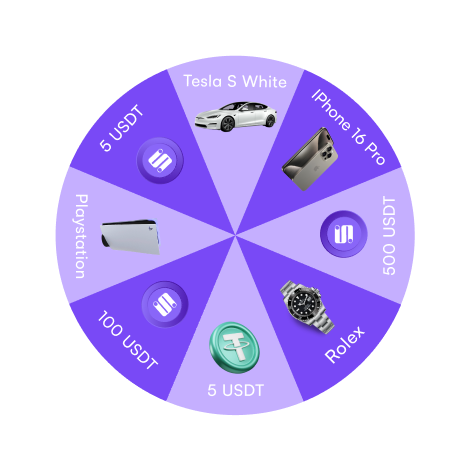
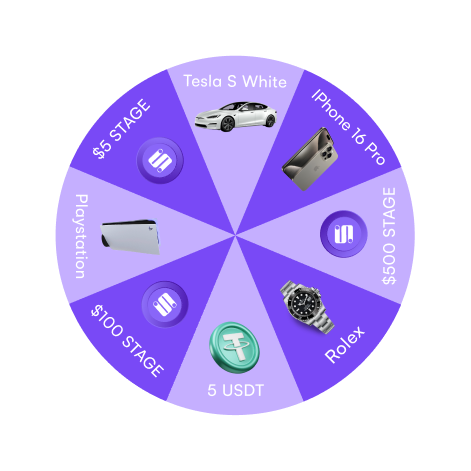
fix SpinWheel anda CORS errors

diff --git a/components/SpinWheel.tsx b/components/SpinWheel.tsx
@@ -39,47 +39,55 @@ const SpinWheel: React.FC<SpinWheelProps> = ({
   }, [hasClaimed]);
 
   useEffect(() => {
-    if (hasClaimed) {
-      setCurrentRotation(360 * 20000); // Muchas vueltas completas
-      setPrizeMessage(localStorage.getItem('prizeMessage') || '');
+    const hasSpunBefore = localStorage.getItem('hasSpun');
+    const savedMessage = localStorage.getItem('prizeMessage');
+    if (hasSpunBefore === 'true') {
+      setHasSpun(true);
+      setHasClaimed(true);
+      if (savedMessage) {
+        setPrizeMessage(savedMessage);
+        // Establecer el ángulo según el mensaje guardado
+        let finalAngle = 0;
+        if (savedMessage.includes('USDT')) {
+          finalAngle = 45;
+        } else if (savedMessage.includes('STAGE')) {
+          finalAngle = 180;
+        }
+        setCurrentRotation(finalAngle);
+      }
     }
   }, []);
 
   const checkWallet = async () => {
-    //console.log('1. Iniciando checkWallet');
+    console.log('1. Iniciando checkWallet');
     
     // Verificar si existe window.ethereum
     if (!(window as any).ethereum) {
-      //console.log('2. MetaMask no está instalado');
+      console.log('2. MetaMask no está instalado');
       setWalletError('Please install MetaMask to continue.');
       setShowWalletModal(true);
       return false;
     }
-    //console.log('2. MetaMask está instalado');
+    console.log('2. MetaMask está instalado');
 
     try {
-      //console.log('3. Intentando conectar con MetaMask');
+      console.log('3. Intentando conectar con MetaMask');
       const provider = new ethers.BrowserProvider((window as any).ethereum);
       
-      //console.log('4. Solicitando cuentas');
+      console.log('4. Solicitando cuentas');
       const accounts = await provider.send("eth_requestAccounts", []);
-      //console.log('5. Cuentas obtenidas:', accounts);
+      console.log('5. Cuentas obtenidas:', accounts);
       
       if (accounts.length === 0) {
-        //console.log('6. No se encontraron cuentas');
+        console.log('6. No se encontraron cuentas');
         setWalletError('Please connect your wallet.');
         setShowWalletModal(true);
         return false;
       }
 
       const walletAddress = accounts[0].toLowerCase();
-      //console.log('6. Wallet conectada:', walletAddress);
+      console.log('6. Wallet conectada:', walletAddress);
       
-      // Llamada al endpoint
-      //console.log('7. Preparando llamada al endpoint local');
-      const requestBody = { walletAddress };
-      //console.log('Body de la petición:', requestBody);
-
       try {
         if (hasClaimed) {
           setWalletError('You have already been rewarded.');
@@ -87,7 +95,7 @@ const SpinWheel: React.FC<SpinWheelProps> = ({
           return false;
         }
 
-        //console.log('8. Realizando fetch a Firebase a través de proxy CORS');
+        console.log('8. Realizando fetch a Firebase');
         const corsProxy = 'https://cors-anywhere.herokuapp.com/';
         const firebaseUrl = 'https://us-central1-raffle-stage-baa32.cloudfunctions.net/checkWallet';
         
@@ -100,82 +108,88 @@ const SpinWheel: React.FC<SpinWheelProps> = ({
           body: JSON.stringify({ walletAddress })
         });
 
-        //console.log('9. Status de la respuesta:', response.status);
+        console.log('9. Status de la respuesta:', response.status);
 
         // Primero obtener la respuesta como texto
         const data = await response.json();
-        //console.log('Respuesta del servidor:', data);
+        console.log('Respuesta del servidor:', data);
 
         let finalAngle = 0;
         if (data.prize === "7") {
-          //console.log('Entrando en condición premio 7');
+          console.log('Entrando en condición premio 7');
           // Premio USDT - ajustar este ángulo según la posición de la ruleta
           finalAngle = 45;
-          const message = '¡ Congrats you won 5 USDT !';
+          const message = 'Congrats you won 5 USDT!';
           setPrizeMessage(message);
           localStorage.setItem('prizeMessage', message);
           setHasClaimed(true);
           localStorage.setItem('hasSpun', 'true');
         } else if (data.prize === "8") {
-          //console.log('Entrando en condición premio 8');
+          console.log('Entrando en condición premio 8');
           // Premio STAGE - ajustar este ángulo según la posición de la ruleta
           finalAngle = 180;
-          const message = '¡ Congrats you won 5 STAGE !';
+          const message = 'Congrats you won $5 STAGE!';
           setPrizeMessage(message);
           localStorage.setItem('prizeMessage', message);
           setHasClaimed(true);
           localStorage.setItem('hasSpun', 'true');
         } else if (!data.success || data.message === 'wallet not found') {
-          //console.log('Entrando en condición wallet not found');
+          console.log('Entrando en condición wallet not found');
           // Sin premio - gira a una posición neutral
           finalAngle = 0;
-          setPrizeMessage('Lo sentimos, tu wallet no es elegible para reclamar un premio');
+          setPrizeMessage('This wallet hasn\'t staked during the campaign');
         } else {
-          //console.log('Entrando en condición else');
+          console.log('Entrando en condición else');
           finalAngle = 360;
-          setPrizeMessage('Ha ocurrido un error al verificar tu wallet');
+          setPrizeMessage('An error ocurred while checking your wallet');
         }
 
-        //console.log('Ángulo final seleccionado:', finalAngle);
+        console.log('Ángulo final seleccionado:', finalAngle);
         // Agregamos 3 vueltas completas antes del ángulo final
         const totalRotation = (360 * 6) + finalAngle;
         setCurrentRotation(totalRotation);
 
         return totalRotation;
       } catch (error: any) {
-        //console.error('Error en el proceso:', error);
-        setWalletError(error.message || 'Error al verificar la wallet');
+        console.error('Error en el proceso:', error);
+        setWalletError(error.message || 'An error ocurred while checking your wallet');
         setShowWalletModal(true);
         return false;
       }
     } catch (error) {
-      //console.log('Error en el proceso:', error);
-      setWalletError('Error al conectar con la wallet');
+      console.log('Error en el proceso:', error);
+      setWalletError('An error ocurred while checking your wallet');
       setShowWalletModal(true);
       return false;
     }
   };
 
   const handleSpin = async () => {
-    //console.log('Iniciando handleSpin');
+    console.log('Iniciando handleSpin');
     if (isSpinning || hasClaimed) {
-      //console.log('Ya está girando o ya giró');
+      console.log('Ya está girando o ya giró');
       return;
     }
     
+    setIsSpinning(true);
     const angle = await checkWallet();
-    //console.log('Ángulo recibido:', angle);
+    console.log('Ángulo recibido:', angle);
     if (angle === false) {
-      //console.log('No se pudo obtener el ángulo');
+      console.log('No se pudo obtener el ángulo');
+      setIsSpinning(false);
       return;
     }
 
-    //console.log('Iniciando giro con ángulo:', angle);
+    console.log('Iniciando giro con ángulo:', angle);
     setIsSpinning(true);
     setHasSpun(true);
 
+    // Solo agregamos las vueltas extras si es la primera vez que gira
+    const totalRotation = hasClaimed ? angle : (360 * 6) + angle;
+    setCurrentRotation(totalRotation);
+
     setTimeout(() => {
-      //console.log('Giro completado');
+      console.log('Giro completado');
       setIsSpinning(false);
       onSpinEnd?.();
     }, 5000);
@@ -262,21 +276,21 @@ const SpinWheel: React.FC<SpinWheelProps> = ({
         aria-labelledby="wallet-dialog-title"
       >
         <DialogTitle id="wallet-dialog-title">
-          Conexión de Wallet Requerida
+          Wallet Connection Required
         </DialogTitle>
         <DialogContent>
           {walletError}
         </DialogContent>
         <DialogActions>
           <Button onClick={() => setShowWalletModal(false)}>
-            Cerrar
+            Close
           </Button>
           {!(window as any).ethereum && (
             <Button
               onClick={() => window.open('https://metamask.io/download/', '_blank')}
               color="primary"
             >
-              Instalar MetaMask
+              Install MetaMask
             </Button>
           )}
         </DialogActions>

diff --git a/components/raffles.tsx b/components/raffles.tsx
@@ -23,8 +23,8 @@ const CountdownTimer: React.FC<CountdownTimerProps> = ({ onOpenDialog }) => {
 
   useEffect(() => {
     // Establecer la fecha objetivo 18 de Diciembre a las 5pm UTC
-    const targetDate = new Date("2024-12-18T14:00:00Z");
-    //const targetDate = new Date("2024-12-16T14:00:00Z");
+    //const targetDate = new Date("2024-12-18T14:00:00Z");
+    const targetDate = new Date("2024-12-16T14:00:00Z");
 
     const calculateTimeLeft = () => {
       const now = new Date();

diff --git a/pages/index.tsx b/pages/index.tsx
@@ -2,7 +2,6 @@ import type { NextPage } from "next";
 import { useState } from "react";
 import Header from "../components/header";
 import RafflesComponent from "../components/raffles";
-// import SuperCampHome from "../components/super-camp-home";
 
 const Home: NextPage = () => {
   const [activeCompareButtons, setActiveCompareButtons] = useState<{ [key: string]: string | null }>({});
